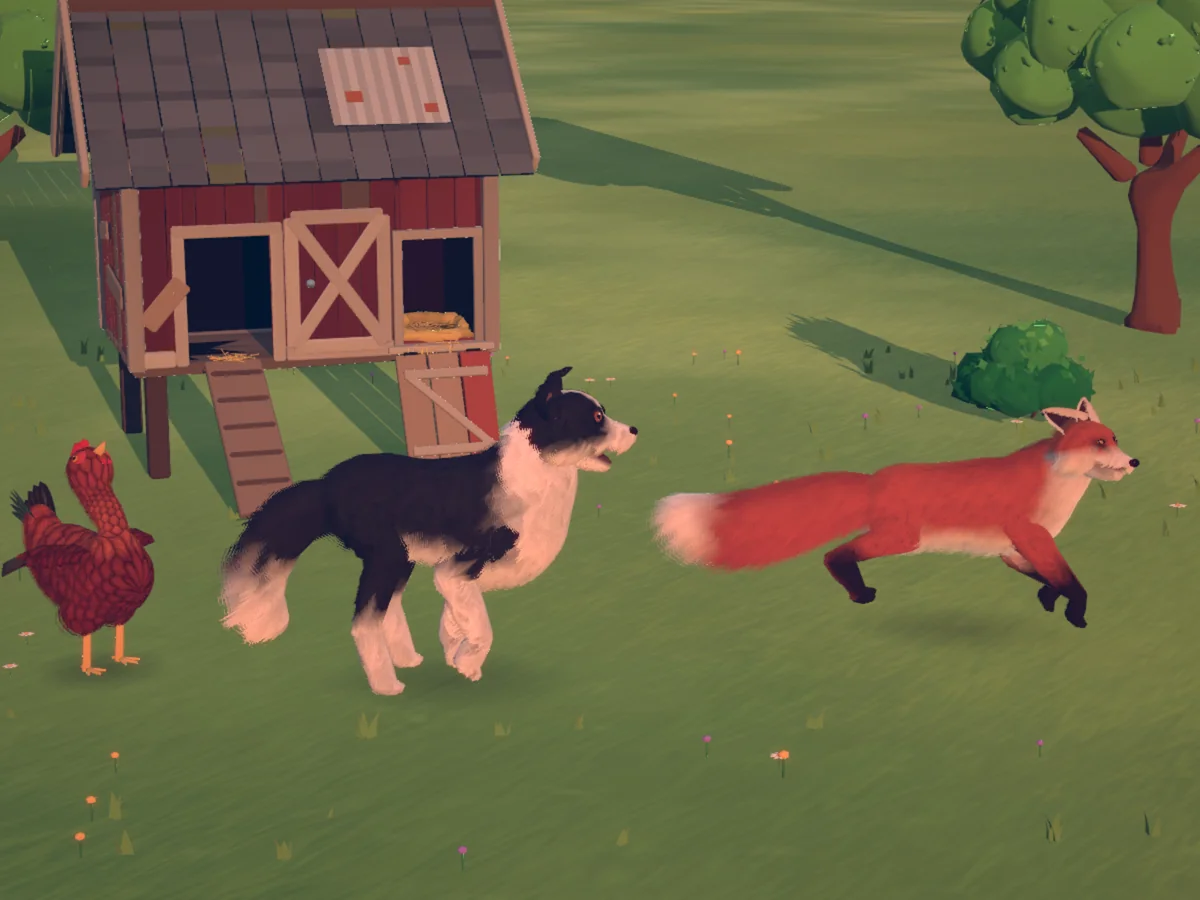
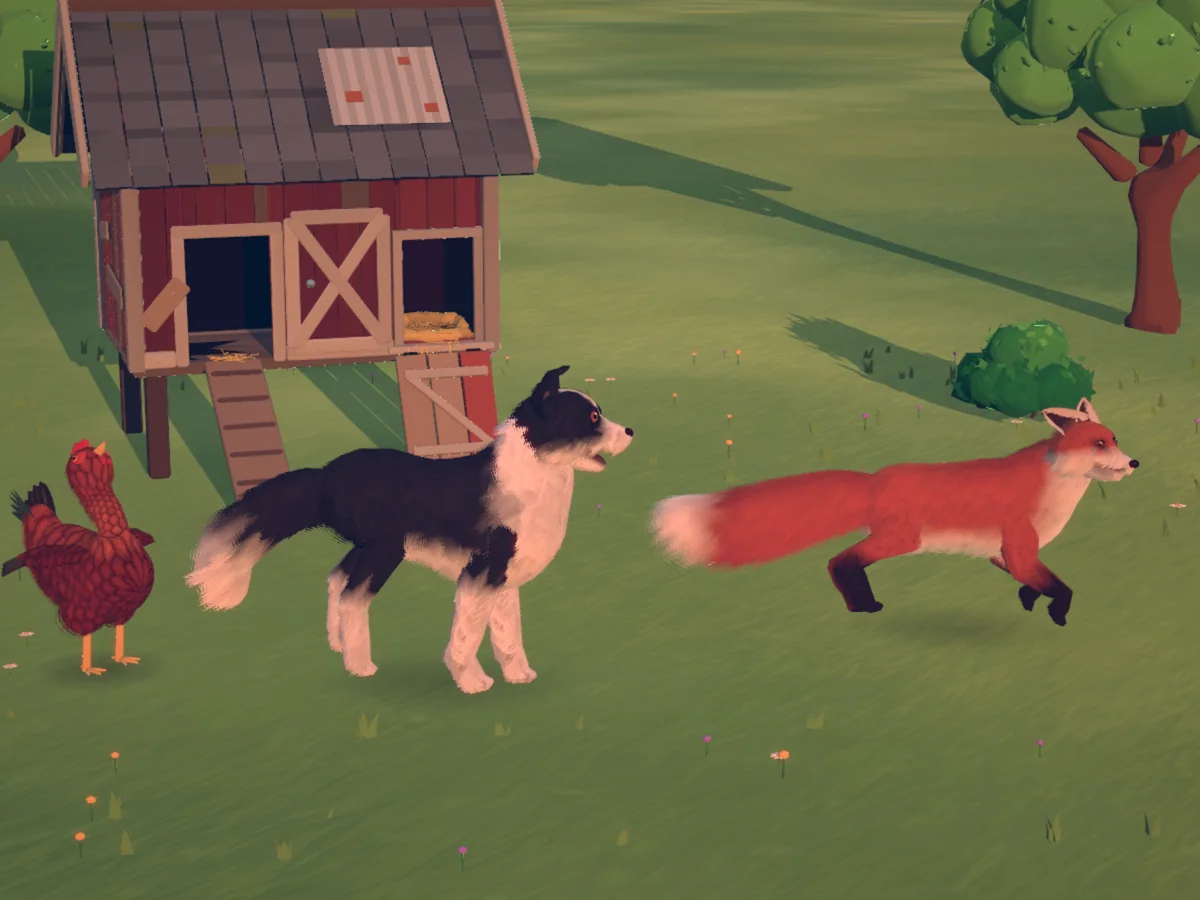
Shop and Pantry buttons redrawn, the Pantry at the top right; Biscuit as he was in the fox's picture
Claude-Session: https://claude.ai/code/session_019sVPTkk8NWGF5qLvLgiKew

diff --git a/web3d/src/gameui.js b/web3d/src/gameui.js
@@ -115,15 +115,15 @@ export class GameUI {
     // (no game name in the corner: 7 Nov, "No need to display the name of the game"; the level and coins together on the
     // left, the farm's buttons on the right, settings apart)
     // the farm shop's own button beside the coins (10 Nov 2026, Audrey: "Farm shop should have its own entry next to the coins to advertise it more")
-    this.shopBtn = el('button', 'gpill gshopbtn'); this.shopBtn.type = 'button'; this.shopLbl = el('span', 'gnum gshop-l'); this.shopBtn.append(el('span', 'gshop-e', '🛍'), this.shopLbl);
+    this.shopBtn = el('button', 'gpill gshopbtn'); this.shopBtn.type = 'button'; this.shopLbl = el('span', 'gnum gshop-l'); { const ic = el('span', 'gshop-i'); ic.innerHTML = '<svg viewBox="0 0 24 24" fill="none" stroke="currentColor" stroke-width="2" stroke-linecap="round" stroke-linejoin="round"><path d="M3 9l1.6-5h14.8L21 9"/><path d="M3 9a3 3 0 006 0 3 3 0 006 0 3 3 0 006 0"/><path d="M5 12.5V20h14v-7.5"/><path d="M10 20v-4.5h4V20"/></svg>'; this.shopBtn.append(ic, this.shopLbl); }      // (a market stall, drawn like the other buttons; Audrey 10 Nov 2026 21:52: "Change the shopping and pantry icons")
     this.shopBtn.addEventListener('click', () => { if (this.o.shop) this.o.shop(); else this.coinSheet(); });
     // the pantry's (10 Nov 2026): a dot when a shelf is full, or eggs wait there and it has never been opened
-    this.panBtn = el('button', 'gpill gshopbtn gpanbtn'); this.panBtn.type = 'button'; this.panLbl = el('span', 'gnum gshop-l'); this.pdot = el('span', 'gdot'); this.pdot.hidden = true; this.panBtn.append(el('span', 'gshop-e', '🧺'), this.panLbl, this.pdot);
+    this.panBtn = el('button', 'gicon gpanbtn'); this.panBtn.type = 'button'; this.panBtn.innerHTML = '<svg viewBox="0 0 24 24" fill="none" stroke="currentColor" stroke-width="2" stroke-linecap="round" stroke-linejoin="round"><rect x="7" y="3" width="10" height="3.2" rx="1"/><path d="M8 6.2c-1.6 1-2.5 2.300-2.500 4.300V18a3 3 0 003 3h7a3 3 0 003-3v-7.500c0-2-.9-3.300-2.500-4.300"/><path d="M9 12.500h6v4H9z"/></svg>'; this.panLbl = el('span', 'gpan-l'); this.pdot = el('span', 'gdot'); this.pdot.hidden = true; this.panBtn.append(this.pdot);      // (a jar, at the top right beside the gear: "Pantry icon should not be next to shopping one")
     this.panBtn.addEventListener('click', () => { if (this.o.pantry) this.o.pantry(); else this.pantrySheet({}); });
-    this.stat = el('div', 'gstat'); this.stat.append(this.lvl, this.coins, this.shopBtn, this.panBtn);
+    this.stat = el('div', 'gstat'); this.stat.append(this.lvl, this.coins, this.shopBtn);
     this.bdot = el('span', 'gdot gcount'); this.bdot.hidden = true; this.bookBtn.append(this.bdot);      // (a milestone to collect)
     this.acts = el('div', 'gacts'); this.acts.append(this.ordBtn, this.jobsBtn, this.showsBtn, this.bookBtn, this.coopsBtn);
-    this.bar.append(this.stat, this.acts, this.gear);
+    this.bar.append(this.stat, this.acts, this.panBtn, this.gear);
     this.bar.hidden = true;
     document.body.append(this.bar);
     // the sheet

diff --git a/web3d/src/intro.js b/web3d/src/intro.js
@@ -348,13 +348,13 @@ class Intro {
     // there at his pace): Rusty looks back over his shoulder, ears back, his brush streaming; Biscuit after him, grinning
     const C = this.ctx, SHOT = 3, fam = { r: this.r, joints: C.beastJoints, out: true, group: new THREE.Group(), foxes: [], visible: () => true };
     this.g.add(fam.group);
-    const runner = (kind, name, role, x, z, heading, v, face) => {
+    const runner = (kind, name, role, x, z, heading, v, face, late = 0) => {      // (late: he sets off that much later, so the shot catches him that much earlier in his stride)
       const f = new Fox(fam, kind, name, role, 1, this.r); f.home = false; f.root.visible = true; f.heading = heading; fam.foxes.push(f);
-      f.at = t => { const back = v * (SHOT - t); f.pos.set(x - Math.sin(heading) * back, 0, z - Math.cos(heading) * back); };
+      f.at = t => { const back = v * (SHOT - Math.max(0, t - late)); f.pos.set(x - Math.sin(heading) * back, 0, z - Math.cos(heading) * back); };
       f.at(0); f.face = face; return f;
     };
     runner('fox', 'Rusty', 'dad', 1.04, 0.27, 1.4, 1.62, A => { A.lookYawGoal = -0.75; A.lookPitchGoal = 0.05; A.earsGoal = -0.7; A.tailUpGoal = 0.3; A.mouthGoal = 0.15; });
-    runner('collie', 'Biscuit', 'dog', -0.36, 0.72, 1.45, 1.66, A => { A.tailUpGoal = 0.7; A.wagGoal = 0.5; A.mouthGoal = 0.7; A.earsGoal = 0.6; A.wideGoal = 0.3; });
+    runner('collie', 'Biscuit', 'dog', -0.2, 0.75, 1.45, 1.66, A => { A.tailUpGoal = 0.7; A.wagGoal = 0.5; A.mouthGoal = 0.7; A.earsGoal = 0.6; A.wideGoal = 0.3; }, 0.1);      // (Biscuit as he was in the first picture, Audrey 10 Nov 2026 21:52: "fox is good but revert the dog to how it was")
     fam.nextTask = f => T.wait(1e6, (f, t, dt) => { f.at(Math.min(this.t, SHOT + 0.5)); f.face(f.A); });
     this.restarts = [() => { for (const f of fam.foxes) { f.at(0); f.lastPos = null; } }];
     this.ticks.push(dt => { if (dt > 0) for (const f of fam.foxes) f.update(dt); });

diff --git a/web3d/index.html b/web3d/index.html
@@ -404,7 +404,7 @@
   .ghist-b { display: inline-block; margin-top: 4px; } .ghist { margin: 4px 0 0; } .ghist[hidden] { display: none; }
   .gshopbtn { padding: 0 13px 0 9px; } .gshop-e { font-size: 19px; line-height: 1; } @media (max-width: 520px) { .gshop-l { display: none; } .gshopbtn { padding: 0 9px; } }
   body.gopen .gshopbtn { display: none; }      /* (a card open: out of the way of a message said over it) */
-  .gpanbtn { position: relative; } .gpan-r { padding: 8px 8px 8px 10px; } .gpan-e { font-size: 24px; flex: none; } .gpan-r .gbtn { min-width: 0; white-space: nowrap; font-size: 15px; padding: 10px 13px; } .gpan-0 { margin: 0 8px 0 0; } .gpan-full { box-shadow: inset 0 0 0 2px rgba(226, 65, 47, 0.4); } .gpan-g { color: var(--ink-2); font-weight: 600; } .gpan-note { background: #fdf0d2; border-radius: 12px; padding: 8px 10px; margin: 0 0 6px; }
+  .gpanbtn { position: relative; } .gshop-i { display: inline-flex; } .gshop-i svg { width: 21px; height: 21px; display: block; } .gpan-r { padding: 8px 8px 8px 10px; } .gpan-e { font-size: 24px; flex: none; } .gpan-r .gbtn { min-width: 0; white-space: nowrap; font-size: 15px; padding: 10px 13px; } .gpan-0 { margin: 0 8px 0 0; } .gpan-full { box-shadow: inset 0 0 0 2px rgba(226, 65, 47, 0.4); } .gpan-g { color: var(--ink-2); font-weight: 600; } .gpan-note { background: #fdf0d2; border-radius: 12px; padding: 8px 10px; margin: 0 0 6px; }
   .gsil { width: 100%; height: 100%; background: #4d564b; -webkit-mask: center / contain no-repeat; mask: center / contain no-repeat; }
   .gcatch-w { display: block; font-size: 12px; font-weight: 800; color: #2f7a3a; line-height: 1.1; } .gcatch-r[data-want] { box-shadow: inset 0 0 0 2px rgba(47, 122, 58, 0.45); } .gcatch-o { margin: 0 0 4px; }
   .gpage-i { display: flex; flex-direction: column; gap: 3px; flex: 1; min-width: 0; padding-top: 1px; }

diff --git a/web3d/README.md b/web3d/README.md
@@ -4912,3 +4912,9 @@ Rusty was caught with his legs bunched under him and his head twisted far back. 
 tenth of a second later (intropics.mjs: T 3.1 for scene 5): he is stretched out in mid-bound, legs apart, glancing back
 less far, Biscuit after him. No model changed, only the moment and the turn of his head. All five welcome pictures were
 shot again so they share the game's Painted look (`intro/*.webp`, the sign of picture 3 in six languages).
+
+## New Shop and Pantry buttons; Biscuit as he was (10 Nov 2026, 21:52; Audrey: "Change the shopping and pantry icons. Pantry icon should not be next to shopping one"; "fox is good but revert the dog to how it was on the previous photo")
+- The Shop pill beside the coins has a drawn market stall (line art like the other buttons) in place of the shopping
+  bags. The Pantry is a round button with a drawn jar at the top right, beside the gear, away from the Shop.
+- The fox's welcome picture: Rusty stays in mid-bound; Biscuit sets off a tenth of a second later (intro.js `runner`'s
+  `late`), so the shot catches him in the same stride as in the first picture.
